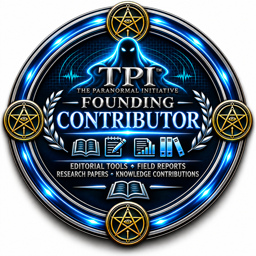
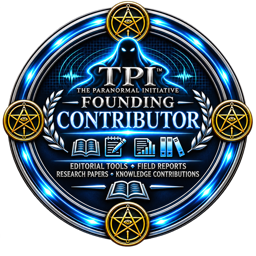
Use transparent founding membership badges

diff --git a/member-home.html b/member-home.html
@@ -3970,7 +3970,7 @@
         }
         if (profileMembership) profileMembership.hidden = !activeMembershipBadge || !activeMembershipBadge.asset || !activeMembershipBadge.asset.png;
         if (profileMembershipBadge && activeMembershipBadge && activeMembershipBadge.asset) {
-            profileMembershipBadge.src = activeMembershipBadge.asset.png;
+            profileMembershipBadge.src = cacheBustedRecognitionAsset(activeMembershipBadge.asset.png);
             profileMembershipBadge.alt = activeMembershipBadge.alt || activeMembershipBadge.label || "Membership badge";
         }
         if (profileMembershipLabel) profileMembershipLabel.textContent = activeMembershipBadge && activeMembershipBadge.label || "";
@@ -3978,7 +3978,7 @@
         if (profileMembership && activeMembershipBadge) {
             var membershipTitle = activeMembershipBadge.label || "Founding membership";
             profileMembership.setAttribute("aria-label", "View " + membershipTitle + " details");
-            profileMembership.dataset.recognitionImage = activeMembershipBadge.asset && (activeMembershipBadge.asset.png2x || activeMembershipBadge.asset.png) || "";
+            profileMembership.dataset.recognitionImage = cacheBustedRecognitionAsset(activeMembershipBadge.asset && (activeMembershipBadge.asset.png2x || activeMembershipBadge.asset.png) || "");
             profileMembership.dataset.recognitionTitle = membershipTitle;
             profileMembership.dataset.recognitionDetail = activeMembership && activeMembership.membershipNumber || "";
             profileMembership.dataset.recognitionDescription = foundingMembershipDescription(activeMembership);
@@ -4151,7 +4151,7 @@
     function cacheBustedRecognitionAsset(path) {
         var value = String(path || "").trim();
         if (!value) return "";
-        return value + (value.indexOf("?") >= 0 ? "&" : "?") + "tpi-recognition=20261110";
+        return value + (value.indexOf("?") >= 0 ? "&" : "?") + "tpi-recognition=20261111";
     }
 
     function foundingMembershipDescription(item) {

diff --git a/profile-style.css b/profile-style.css
@@ -42,7 +42,7 @@
 .profile-recognition-trigger { display: inline-grid; place-items: center; flex: none; padding: 0; border: 0; border-radius: var(--radius-full); background: transparent; cursor: zoom-in; }
 .profile-recognition-trigger:focus-visible { outline: 3px solid var(--profile-highlight,var(--text-accent)); outline-offset: 4px; }
 .profile-recognition-trigger img { display: block; width: 76px; height: 76px; border-radius: var(--radius-full); object-fit: contain; background: transparent; }
-.founding-badge-chip-art { display: block; flex: none; width: 76px; height: 76px; border-radius: var(--radius-full); object-fit: cover; }
+.founding-badge-chip-art { display: block; flex: none; width: 76px; height: 76px; border-radius: var(--radius-full); object-fit: contain; background: transparent; }
 .founding-badge-chip-text { display: grid; gap: 2px; min-width: 0; }
 .founding-badge-chip-text strong { color: var(--text-primary); font-size: 14px; font-weight: 700; line-height: 1.25; }
 .founding-badge-chip-text span { color: var(--text-secondary); font-size: 12px; letter-spacing: .06em; text-transform: uppercase; }

diff --git a/assets/founding-memberships/README.md b/assets/founding-memberships/README.md
@@ -19,20 +19,22 @@ families must never be merged into one rank.
 | `FCT` | `FCT-001`–`FCT-050` | Founding Contributor | `masters/FoundingContributorBadgeMaster.png` | `web/founding-contributor-{512,256,128}.png`, `web/founding-contributor-{512,256}.webp` |
 | `FAA` | `FAA-001`–`FAA-050` | Founding All-Access | `masters/FoundingAllAcceessBadgeMaster.png` | `web/founding-all-access-{512,256,128}.png`, `web/founding-all-access-{512,256}.webp` |
 
-## Master artwork (preserved unchanged)
+## Master artwork
 
-Imported from the owner's Mac on 2026-11-03. The files are byte-identical copies;
-the spelling `FoundingAllAcceessBadgeMaster.png` (including `Acceess`) is the
-owner's original filename and is preserved deliberately. Do not rename, resize,
-re-encode, or overwrite the masters.
+The owner supplied updated transparent PNG masters on 2026-11-11. The existing
+master filenames remain stable, including the historical spelling
+`FoundingAllAcceessBadgeMaster.png`; the original non-transparent artwork was
+replaced with these approved transparent files. Keep these masters unmodified
+and regenerate the published derivatives from them.
 
 | File | Source | SHA-256 |
 |---|---|---|
[6 lines of base64/hex data omitted]
 
-All three masters are 1254×1254 8-bit PNG without an alpha channel. Verify with:
+All three masters are 1254×1254 RGBA PNGs with transparent backgrounds. Verify
+with:
 
 ```sh
 shasum -a 256 assets/founding-memberships/masters/*.png
